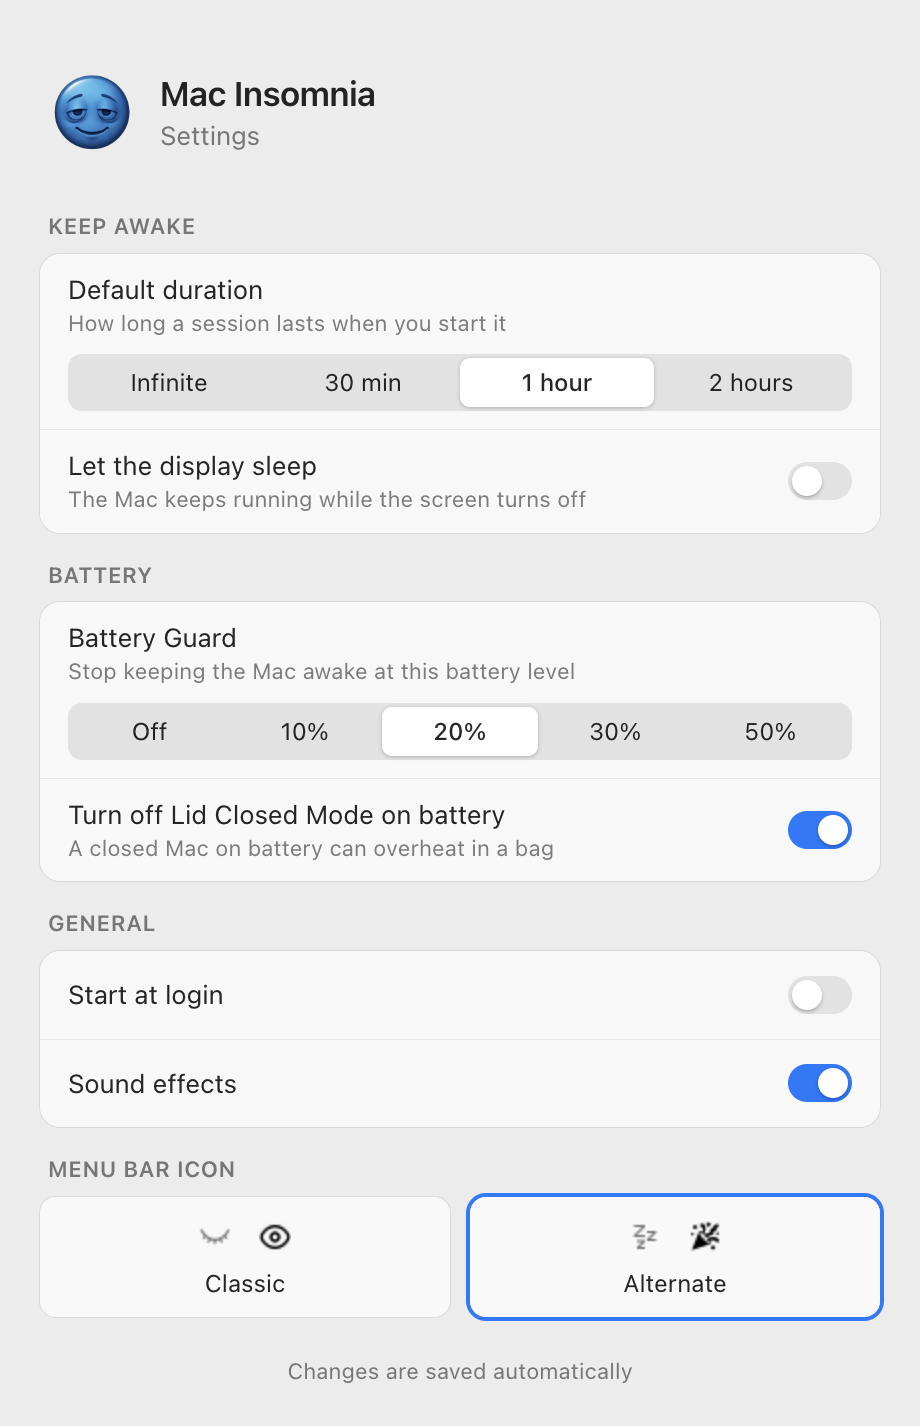
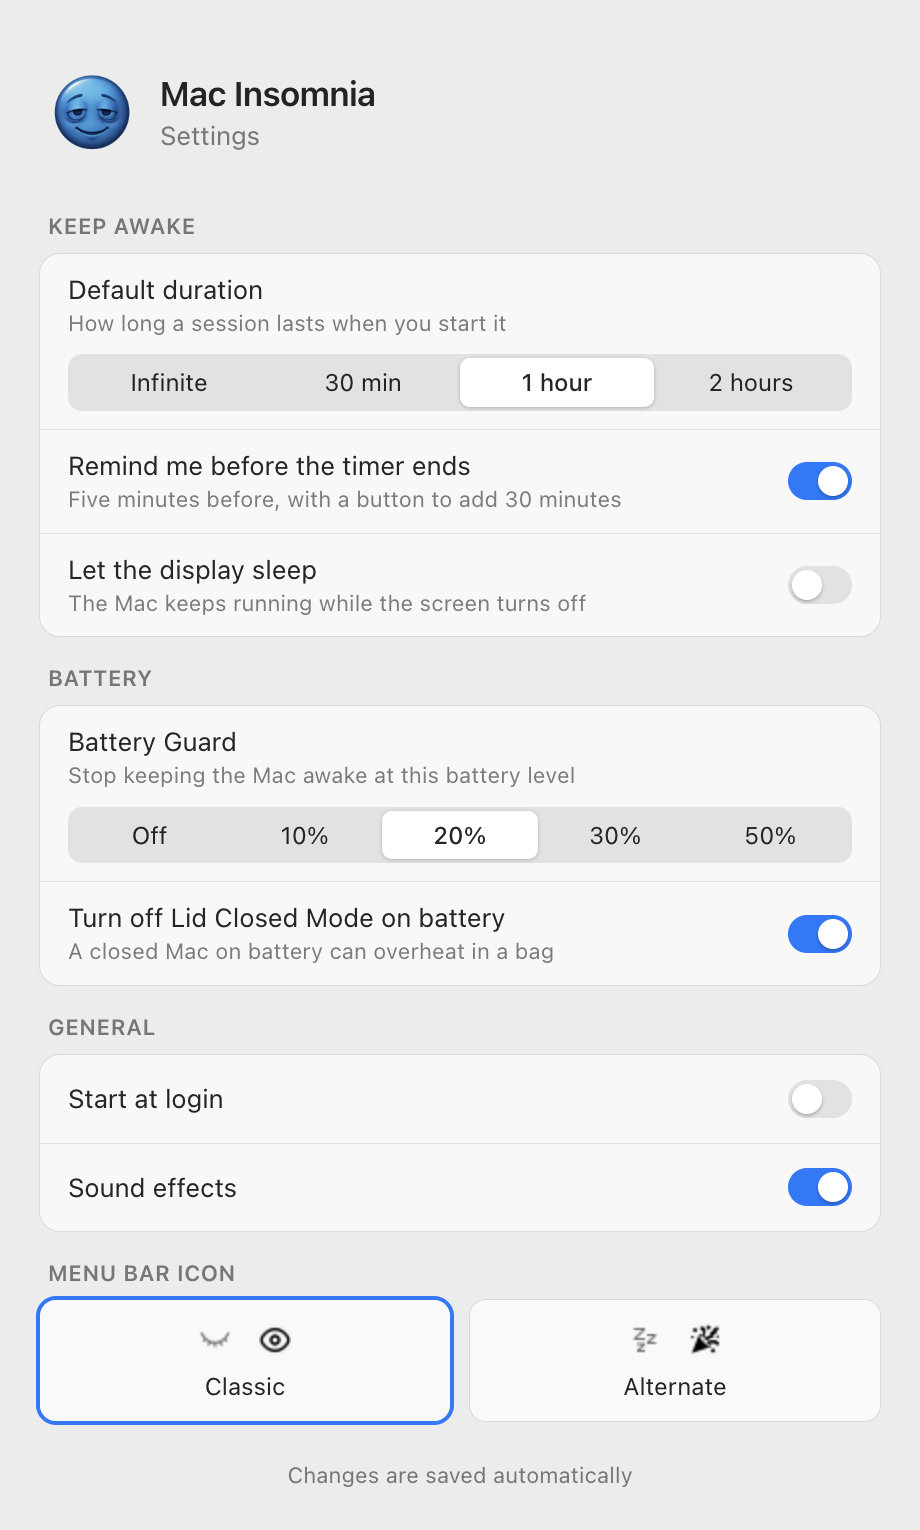
Remind before the timer ends, with a button to add 30 minutes
Five minutes before a timed session ends, a notification offers to add
30 minutes (its button or a click on it). The menu has Add 30 Minutes
while a timer runs. The reminder can be turned off in Settings; it is
skipped when five minutes or less are left. Waking from sleep now
re-schedules both timers. README screenshots show the new setting.

diff --git a/main/main.js b/main/main.js
@@ -4,6 +4,7 @@ const fs = require('fs');
 const { spawn, execFile } = require('child_process');
 const { LidSleepController } = require('./lid-sleep');
 const { keepAwakeArgs } = require('./keep-awake-args');
+const { EXTEND_MS, warningDelayMs, extendedEndTime, minutesLeft } = require('./timer-warning');
 const { GUARD_LEVELS, DEFAULT_GUARD_PERCENT, BatteryMonitor, normalizeGuardPercent, shouldMonitor, shouldStop, shouldResumeSmartMode, lidModeAllowed } = require('./battery-guard');
 const { parseCommandUrl } = require('./url-commands');
 const { ClaudeWatcher, URL_SCHEME, CLAUDE_SETTINGS, readClaudeSettings, writeClaudeSettings, hasHooks, addHooks, removeHooks } = require('./claude-watch');
@@ -28,7 +29,8 @@ let settings = {
     smartMode: false,
     allowDisplaySleep: false,
     batteryGuardPercent: DEFAULT_GUARD_PERCENT,
-    lidOffOnBattery: true
+    lidOffOnBattery: true,
+    timerWarning: true
 };
 
 let tray = null;
@@ -39,6 +41,8 @@ let caffeinateProcess = null;
 let duration = null;
 let endTime = null;
 let endTimer = null;
+let warnTimer = null;
+let warningNotification = null;
 let soundProcess = null;
 let cachedMenu = null;
 let lidSleep = null;
@@ -117,6 +121,11 @@ const SETTING_APPLIERS = {
         saveSettings();
     },
     allowDisplaySleep: (value) => setAllowDisplaySleep(Boolean(value)),
+    timerWarning: (value) => {
+        settings.timerWarning = Boolean(value);
+        saveSettings();
+        scheduleTimers();
+    },
     batteryGuardPercent: (value) => setBatteryGuard(normalizeGuardPercent(value)),
     lidOffOnBattery: (value) => setLidOffOnBattery(Boolean(value))
 };
@@ -333,6 +342,7 @@ function createContextMenu () {
     const runLabel = isPlaying ? `Stop Insomnia (${formatTimeRemaining()})` : `Start (${formatDurationLabel(duration)}) Insomnia`;
     return Menu.buildFromTemplate([
         { label: runLabel, click: () => togglePlayback() },
+        ...(isPlaying && endTime ? [{ label: 'Add 30 Minutes', click: () => extendTimer(EXTEND_MS) }] : []),
         { type: 'separator' },
         {
             label: 'Set Duration',
@@ -524,11 +534,48 @@ function stopCaffeinate () {
     if (child) child.kill('SIGTERM');
 }
 
-function armTimer () {
+function clearTimers () {
     clearTimeout(endTimer);
+    clearTimeout(warnTimer);
     endTimer = null;
+    warnTimer = null;
+    warningNotification?.close();
+    warningNotification = null;
+}
+
+function scheduleTimers () {
+    clearTimers();
+    if (!isPlaying || !endTime) return;
+    endTimer = setTimeout(onTimerEnd, Math.max(0, endTime - Date.now()));
+    const delay = settings.timerWarning ? warningDelayMs({ endTime, now: Date.now() }) : null;
+    if (delay !== null) warnTimer = setTimeout(showTimerWarning, delay);
+}
+
+function armTimer () {
     endTime = duration ? Date.now() + duration : null;
-    if (endTime) endTimer = setTimeout(onTimerEnd, duration);
+    scheduleTimers();
+}
+
+function showTimerWarning () {
+    warnTimer = null;
+    if (!isPlaying || !endTime || !Notification.isSupported()) return;
+    const minutes = minutesLeft({ endTime, now: Date.now() });
+    const notification = new Notification({
+        title: `Insomnia ends in ${minutes} minute${minutes === 1 ? '' : 's'}`,
+        body: 'Click to keep the Mac awake 30 more minutes.',
+        actions: [{ type: 'button', text: 'Add 30 Minutes' }]
+    });
+    notification.on('click', () => extendTimer(EXTEND_MS));
+    notification.on('action', () => extendTimer(EXTEND_MS));
+    notification.show();
+    warningNotification = notification;
+}
+
+function extendTimer (ms) {
+    if (!isPlaying || !endTime) return;
+    endTime = extendedEndTime({ endTime, now: Date.now(), addMs: ms });
+    scheduleTimers();
+    refreshTray();
 }
 
 function onTimerEnd () {
@@ -556,8 +603,7 @@ function stopPlayback () {
     isPlaying = false;
     playSound(false);
     stopCaffeinate();
-    clearTimeout(endTimer);
-    endTimer = null;
+    clearTimers();
     endTime = null;
     if (lidSleep.active) disableLidMode();
     else if (lidSleep.pending) lidSleep.killToken();
@@ -747,7 +793,10 @@ if (!app.requestSingleInstanceLock()) {
         powerMonitor.on('on-battery', () => onPowerSourceChange(true));
         powerMonitor.on('on-ac', () => onPowerSourceChange(false));
         powerMonitor.on('resume', () => {
-            if (endTimer) onTimerEnd();
+            if (isPlaying && endTime) {
+                if (Date.now() >= endTime) stopPlayback();
+                else scheduleTimers();
+            }
             const battery = powerMonitor.isOnBatteryPower();
             if (battery !== onBattery) onPowerSourceChange(battery);
         });

diff --git a/test/timer-warning.test.js b/test/timer-warning.test.js
@@ -1,0 +1,28 @@
+const test = require('node:test');
+const assert = require('node:assert');
+const { WARNING_LEAD_MS, EXTEND_MS, warningDelayMs, extendedEndTime, minutesLeft } = require('../main/timer-warning');
+
+const MIN = 60 * 1000;
+
+test('the warning is due five minutes before the end', () => {
+    assert.equal(warningDelayMs({ endTime: 60 * MIN, now: 0 }), 55 * MIN);
+    assert.equal(warningDelayMs({ endTime: 60 * MIN, now: 50 * MIN }), 5 * MIN);
+});
+
+test('no warning without a timer, or when five minutes or less are left', () => {
+    assert.equal(warningDelayMs({ endTime: null, now: 0 }), null);
+    assert.equal(warningDelayMs({ endTime: 5 * MIN, now: 0 }), null);
+    assert.equal(warningDelayMs({ endTime: 60 * MIN, now: 57 * MIN }), null);
+});
+
+test('extending adds to the current end, or to now when the end has passed', () => {
+    assert.equal(extendedEndTime({ endTime: 60 * MIN, now: 56 * MIN }), 60 * MIN + EXTEND_MS);
+    assert.equal(extendedEndTime({ endTime: 60 * MIN, now: 61 * MIN }), 61 * MIN + EXTEND_MS);
+    assert.equal(WARNING_LEAD_MS, 5 * MIN);
+});
+
+test('minutesLeft rounds to whole minutes and never says zero', () => {
+    assert.equal(minutesLeft({ endTime: 5 * MIN, now: 0 }), 5);
+    assert.equal(minutesLeft({ endTime: 4.6 * MIN, now: 0 }), 5);
+    assert.equal(minutesLeft({ endTime: 10 * 1000, now: 0 }), 1);
+});

diff --git a/renderer/settings.html b/renderer/settings.html
@@ -268,6 +268,13 @@
             </div>
             <label class="row">
                 <span class="label">
+                    <span>Remind me before the timer ends</span>
+                    <span class="caption">Five minutes before, with a button to add 30 minutes</span>
+                </span>
+                <input class="switch" type="checkbox" data-setting="timerWarning">
+            </label>
+            <label class="row">
+                <span class="label">
                     <span>Let the display sleep</span>
                     <span class="caption">The Mac keeps running while the screen turns off</span>
                 </span>

diff --git a/main/timer-warning.js b/main/timer-warning.js
@@ -1,0 +1,17 @@
+const WARNING_LEAD_MS = 5 * 60 * 1000;
+const EXTEND_MS = 30 * 60 * 1000;
+
+function warningDelayMs ({ endTime, now, leadMs = WARNING_LEAD_MS }) {
+    if (!endTime || endTime - now <= leadMs) return null;
+    return endTime - leadMs - now;
+}
+
+function extendedEndTime ({ endTime, now, addMs = EXTEND_MS }) {
+    return Math.max(endTime || now, now) + addMs;
+}
+
+function minutesLeft ({ endTime, now }) {
+    return Math.max(1, Math.round((endTime - now) / 60000));
+}
+
+module.exports = { WARNING_LEAD_MS, EXTEND_MS, warningDelayMs, extendedEndTime, minutesLeft };

diff --git a/README.md b/README.md
@@ -28,6 +28,7 @@ Both windows follow the system's light or dark appearance and accent color. In t
 
 - 🕹 **Menu Bar Control** – Toggle sleep prevention instantly
 - ⏱ **Set Duration** – Choose 30 min, 1 hour, 2 hours, or infinite
+- ⏰ **Timer Reminder** – A notification five minutes before the timer ends, with a button (and a menu item) to add 30 minutes
 - 🔋 **Battery Guard** – Stops keeping the Mac awake when the battery runs low (20% by default), and turns off Lid Closed Mode on battery
 - 🖥 **Let the Display Sleep** – Keep the Mac running but let the screen turn off, to save power during downloads, builds or long Claude runs
 - 🔊 **Sound Effects** – Optional feedback for start/stop
